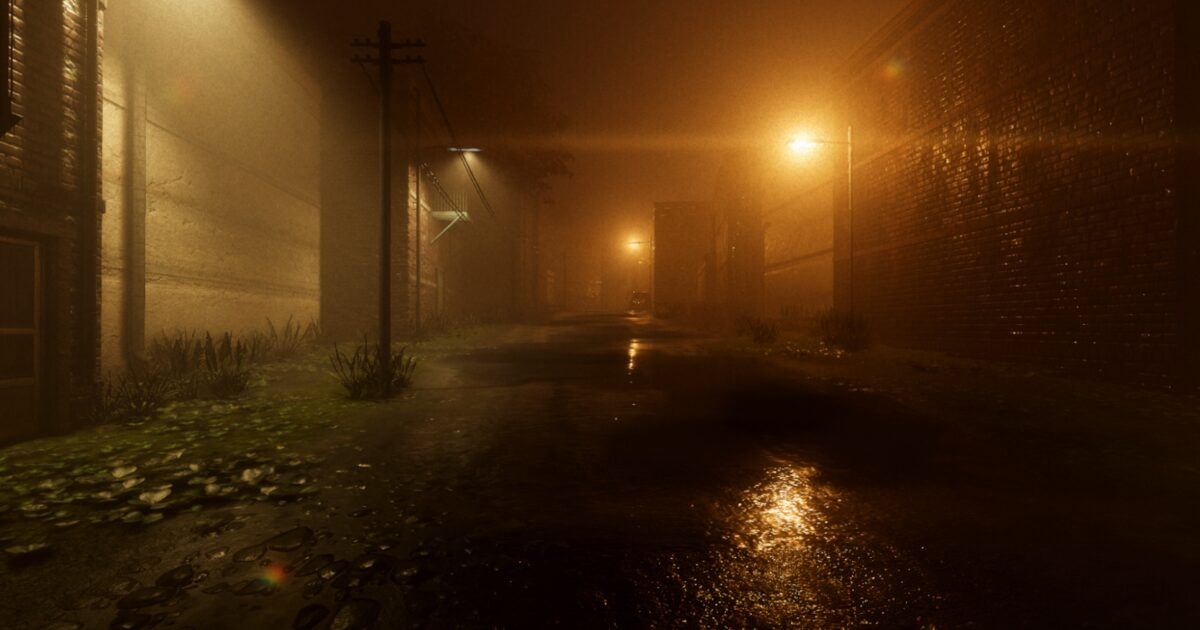
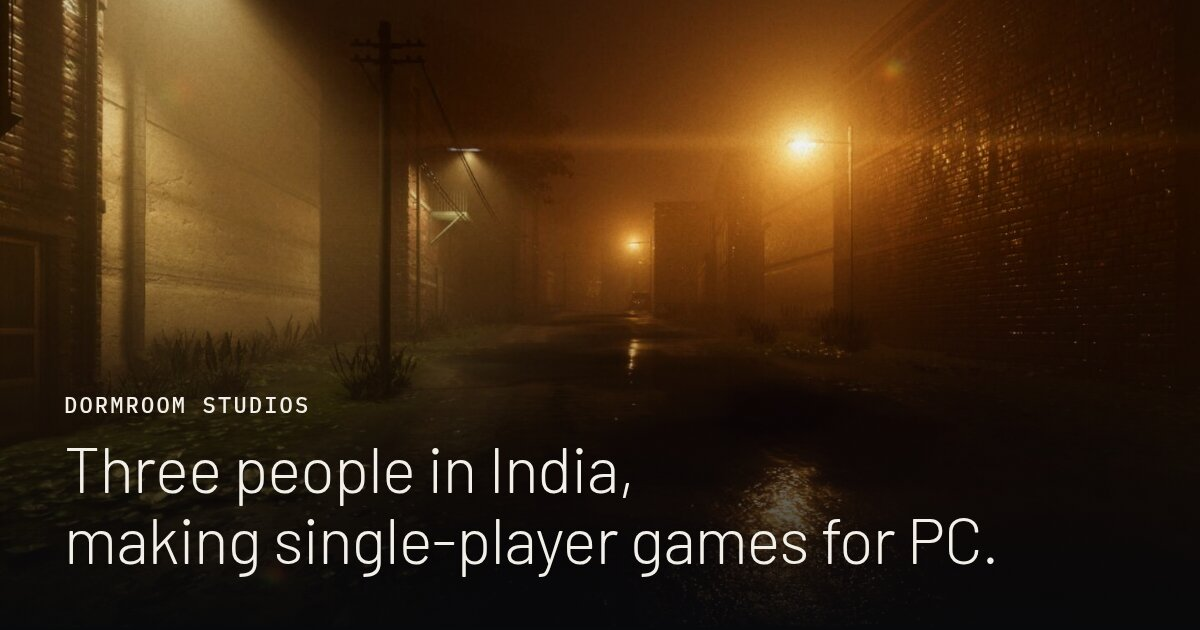
Add sitemap, share image with wordmark, Organization JSON-LD and a "Wrong street" 404
robots.txt now points at sitemap.xml. The Open Graph block gains
site_name, locale and image alt. og.jpg is rendered from
scripts/studio-og.html so the shared card names the studio instead of
showing a bare street.

diff --git a/index.html b/index.html
@@ -8,18 +8,37 @@
 <meta name="theme-color" content="#08090b">
 <link rel="canonical" href="https://dormroom.in/">
 <meta property="og:url" content="https://dormroom.in/">
-<meta property="og:image" content="https://dormroom.in/img/og.jpg">
-<meta property="og:image:width" content="1200">
-<meta property="og:image:height" content="630">
-<meta name="twitter:card" content="summary_large_image">
+<meta property="og:site_name" content="Dormroom Studios">
+<meta property="og:locale" content="en_US">
 <meta property="og:type" content="website">
 <meta property="og:title" content="Dormroom Studios">
 <meta property="og:description" content="An independent studio. Our next launch is Neon Fragments, coming to Steam on 25 February 2027.">
+<meta property="og:image" content="https://dormroom.in/img/og.jpg">
+<meta property="og:image:width" content="1200">
+<meta property="og:image:height" content="630">
+<meta property="og:image:alt" content="Dormroom Studios, over a foggy street from Neon Fragments">
+<meta name="twitter:card" content="summary_large_image">
+<meta name="twitter:image:alt" content="Dormroom Studios, over a foggy street from Neon Fragments">
 <link rel="icon" href="/favicon.ico" sizes="any">
 <link rel="apple-touch-icon" href="/apple-touch-icon.png">
 <link rel="preload" href="/fonts/barlow-300-latin.woff2" as="font" type="font/woff2" crossorigin>
 <link rel="preload" href="/fonts/ibm-plex-mono-400-latin.woff2" as="font" type="font/woff2" crossorigin>
 <link rel="stylesheet" href="/styles.css">
+<script type="application/ld+json">
+{
+  "@context": "https://schema.org",
+  "@type": "Organization",
+  "name": "Dormroom Studios",
+  "url": "https://dormroom.in/",
+  "logo": "https://dormroom.in/img/og.jpg",
+  "email": "hello@neonfragments.com",
+  "address": { "@type": "PostalAddress", "addressCountry": "IN" },
+  "sameAs": [
+    "https://www.youtube.com/@NeonFragmentsGame",
+    "https://store.steampowered.com/app/3641020/Neon_Fragments/"
+  ]
+}
+</script>
 </head>
 <body>
 <header class="top">

diff --git a/styles.css b/styles.css
@@ -92,7 +92,7 @@ html { scroll-snap-type: y proximity; }
 .missing .hero-art { opacity: .25; filter: grayscale(.6); }
 .missing::after { content: ""; position: absolute; inset: 0; background: linear-gradient(180deg, transparent 30%, rgba(8,9,11,.92) 100%); pointer-events: none; }
 .missing-text { position: relative; z-index: 1; padding: 0 var(--gutter) 32px; display: flex; flex-direction: column; gap: 12px; }
-.code { font-weight: 600; font-size: 120px; line-height: .9; letter-spacing: -.03em; color: var(--text); }
+.code { margin: 0; font-weight: 300; font-size: clamp(44px, 10vw, 96px); line-height: 1; letter-spacing: -.02em; color: var(--text); }
 .missing-line { font-size: 22px; color: var(--text); }
 
 @media (min-width: 760px) {
@@ -114,5 +114,4 @@ html { scroll-snap-type: y proximity; }
   .sec-body { gap: 22px; }
   .sec.sec-game { display: flex; }
   .missing-text { padding-bottom: 48px; }
-  .code { font-size: 200px; }
 }

diff --git a/404.html b/404.html
@@ -20,7 +20,8 @@
     <img class="hero-art" src="/img/keyart-1440.jpg" srcset="/img/keyart-800.jpg 800w, /img/keyart-1440.jpg 1440w" sizes="100vw" alt="" width="1438" height="810">
   </picture>
   <div class="missing-text">
-    <p class="code">404</p>
+    <p class="meta">404</p>
+    <h1 class="code">Wrong street.</h1>
     <p class="missing-line">There's nothing at this address.</p>
     <p class="inline-links"><a href="/">Back to the studio</a><a href="https://neonfragments.com/">Neon Fragments</a></p>
   </div>
